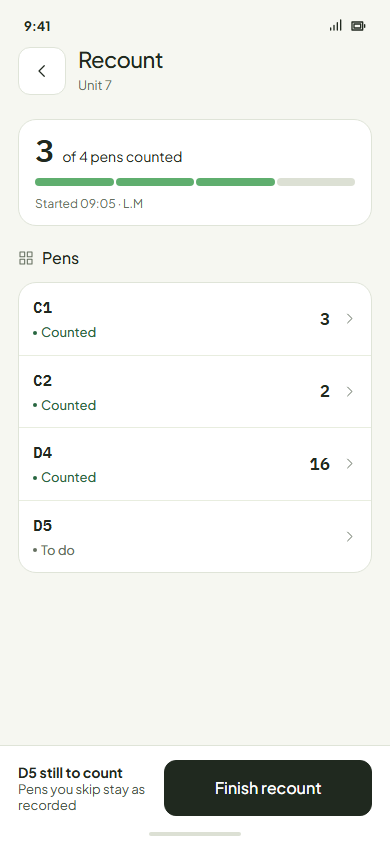
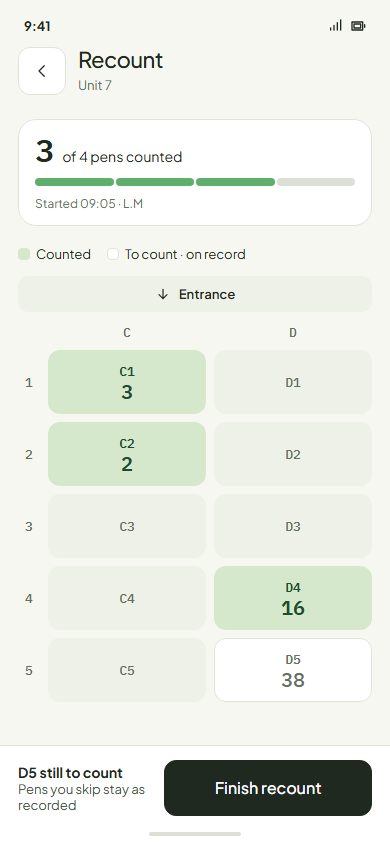
Count: a recount that changes nothing just saves; the balance sheet is one ledger (counted, changes, on record); the recount on the pen map

diff --git a/features/count/PRD.md b/features/count/PRD.md
@@ -29,9 +29,9 @@ Reviewed on the Claude Design canvas ([canvas.md](canvas.md)). Ruled and redrawn
 - **Transfer out is a reference list; receiving receives and locates** (owner, 2026-11-03). The source side counts nothing and scans nothing: *Pigs to move* lists the pigs in the transfer by source pen (tagged pigs by ear tag, the rest as a number), with one action, *Receive in Unit 9*. *Receive pigs* is where pigs are received and placed into pens, pen by pen; pigs not received when receiving finishes go on the batch's balancing sheet. ([mock](mock/mock-9-transfer-out.png); the live back end's transfer research: [transfer-research.md](transfer-research.md).)
 
 - **Recount is the unit's, with a balance sheet** (owner, 2026-11-03; supersedes the per-pen Review count). *Recount · Unit 7* lists the unit's pens, each with what was found or *Not counted yet*; tapping a pen opens the pen count (all pigs, then ear tags by search or scan), whose *Done* returns to the list. *Count* on a pen page opens the same recount, straight into that pen. *Finish recount* shows the **unit balance sheet**: on record against counted; pigs found in another pen, which move; pigs without ear tags netted pen against pen (D4 −1, D5 +1: balanced), so pigs moved and not updated, or piglets shuffled between pens, stop being losses; and only what the unit can't account for (000803, found in no pen) goes on the batch's balancing sheet. *Save recount*. ([mock 10](mock/mock-10-unit-recount.png), [11](mock/mock-11-unit-balance.png).)
-- **The balance sheet has two outcomes** (owner, 2026-11-03). Most days the count matches: *On record 59 → Counted 59* and **Nothing changed** (*Every pig is where the record says*) ([11m](mock/mock-11m-nothing-changed.png)). Only when the unit's count changed does it list what changed, and only what moved the total: *Found from other units +2* (000512, 000733), *Not found −1* (000803, the one amber tile: to the balancing sheet). Pigs without ear tags counted in a different pen of the unit than recorded are normal work: the pens are updated and the sheet says nothing about it. A, recommended: the result, then *What changed*; B: the same as a written statement ([A](mock/mock-11-unit-balance.png), [B](mock/mock-11-unit-balance-b.png)). Each line opens its pigs ([11b](mock/mock-11b-found.png), [11c](mock/mock-11c-not-found.png)). The pen list says each pen's state with the Status colours (*Counted* green, *To do* grey) and the pigs counted; its bar is done-green segments on the empty track.
+- **A recount that changes nothing just saves; the balance sheet opens only when the unit's total changed** (owner, 2026-11-03). It is one ledger card in the owner's order: *Counted 60* at the top; each change a door with its signed figure in a tonal tile (*Found from other units +2*, *Not found −1*, the one amber, to the balancing sheet); *On record 59* at the bottom ([11](mock/mock-11-unit-balance.png); each line opens its pigs: [11b](mock/mock-11b-found.png), [11c](mock/mock-11c-not-found.png)). Pigs without ear tags counted in a different pen of the unit than recorded are normal work: the pens are updated and nothing is said. **The recount is drawn on the unit's pen map** (owner: "we should use pen view"): counted pens turn done-green with their count; a pen still to count shows what the record says; tap a pen to count it ([10](mock/mock-10-unit-recount.png)).
 - **The pen count asks two questions** (owner, 2026-11-03: titles are questions): *How many pigs are in D4?* (the stepper), then *Which tagged pigs are here?* with *4 found* beside it (search or scan, ticked rows).
-- **Receiving is two parts: the plan, then the count** (owner, 2026-11-03; supersedes receiving pen by pen). 1 · *The plan*: where the batch goes and how many in each pen, drawn on the unit's pen map (15 a pen, or a pen's maximum), each tile its pen code and its planned number; one design for every kind of pen (owner, 2026-11-03: no separate receive sows; a gestation crate simply shows 1). The crew puts pigs in by it; it is a guide, and nothing is recorded while pigs are moving. 2 · *The count*: once the pigs are in, *Count pens* turns the same map into the count; a counted pen turns done-green with its count, the rest keep the plan; tapping a pen opens the pen count (all pigs, then ear tags). What was counted is where the pigs are. *Finish receiving* shows *Sent 120 → Counted 119* and what is off (1 not arrived, to the balancing sheet); the plan is not a line ([13](mock/mock-13-receive-plan.png), [14](mock/mock-14-receive-count.png), [12](mock/mock-12-receive-pen.png), [15](mock/mock-15-receive-balance.png)). The map tile carrying a number is a proposed PenMap variant (*plan*). **Pigs to move is the source room's pen map** (owner, 2026-11-03): a pen whose pigs all go shows the move glyph (not a tick, which reads as done); a pen sending some shows *12/13*; tapping it opens the pen with a toggle, *Move · 12* and *Stay · 1* ([9](mock/mock-9-transfer-out.png), [9b](mock/mock-9b-pen-move.png), [9c](mock/mock-9c-pen-stay.png)).
+- **Receiving is two parts: the plan, then the count** (owner, 2026-11-03; supersedes receiving pen by pen). 1 · *The plan*: where the batch goes and how many in each pen, drawn on the unit's pen map (15 a pen, or a pen's maximum), each tile its pen code and its planned number; one design for every kind of pen (owner, 2026-11-03: no separate receive sows; a gestation crate simply shows 1). The crew puts pigs in by it; it is a guide, and nothing is recorded while pigs are moving. 2 · *The count*: once the pigs are in, *Count pens* turns the same map into the count; a counted pen turns done-green with its count, the rest keep the plan; tapping a pen opens the pen count (all pigs, then ear tags). What was counted is where the pigs are. *End task* closes it (below) ([13](mock/mock-13-receive-plan.png), [14](mock/mock-14-receive-count.png), [12](mock/mock-12-receive-pen.png)). The map tile carrying a number is a proposed PenMap variant (*plan*). **Pigs to move is the source room's pen map** (owner, 2026-11-03): a pen whose pigs all go shows the move glyph (not a tick, which reads as done); a pen sending some shows *12/13*; tapping it opens the pen with a toggle, *Move · 12* and *Stay · 1* ([9](mock/mock-9-transfer-out.png), [9b](mock/mock-9b-pen-move.png), [9c](mock/mock-9c-pen-stay.png)).
 - **Ending the transfer is Farrowing's End task** (owner, 2026-11-03: "look at how we do it for the farrowing end task"). After receiving, the task closes from *End task*: the heading answers (*Before you can end* / *Ready to end early* / *Ready to end*); one bar over the batch's pigs, then a row per part: *Received* (done), *Still to count* (in progress, a door: count those pens to end), *Not arrived* (with the amber "!", as *Leave the batch*: goes on the balancing sheet at the end); *When you end* says what ending does (recorded in Unit 9, left in the source room, to the balancing sheet ›); a *Count* card (sent against counted, pens, per pen, ear tags); the hold (*COUNT B4 FIRST* waiting, *Hold to end early* in red wash, *Hold to end*) ([16](mock/mock-16-end-blocked.png), [16b](mock/mock-16b-end-early.png), [16c](mock/mock-16c-end-ready.png)). The End task mocks render against a checkout that has Farrowing's End task (PR 294).
 - **Sex and weight of pigs without ear tags** (owner question): recommended kept on the batch (sex split and the last average weight), never per pen, so a move or count never asks for them.
 
